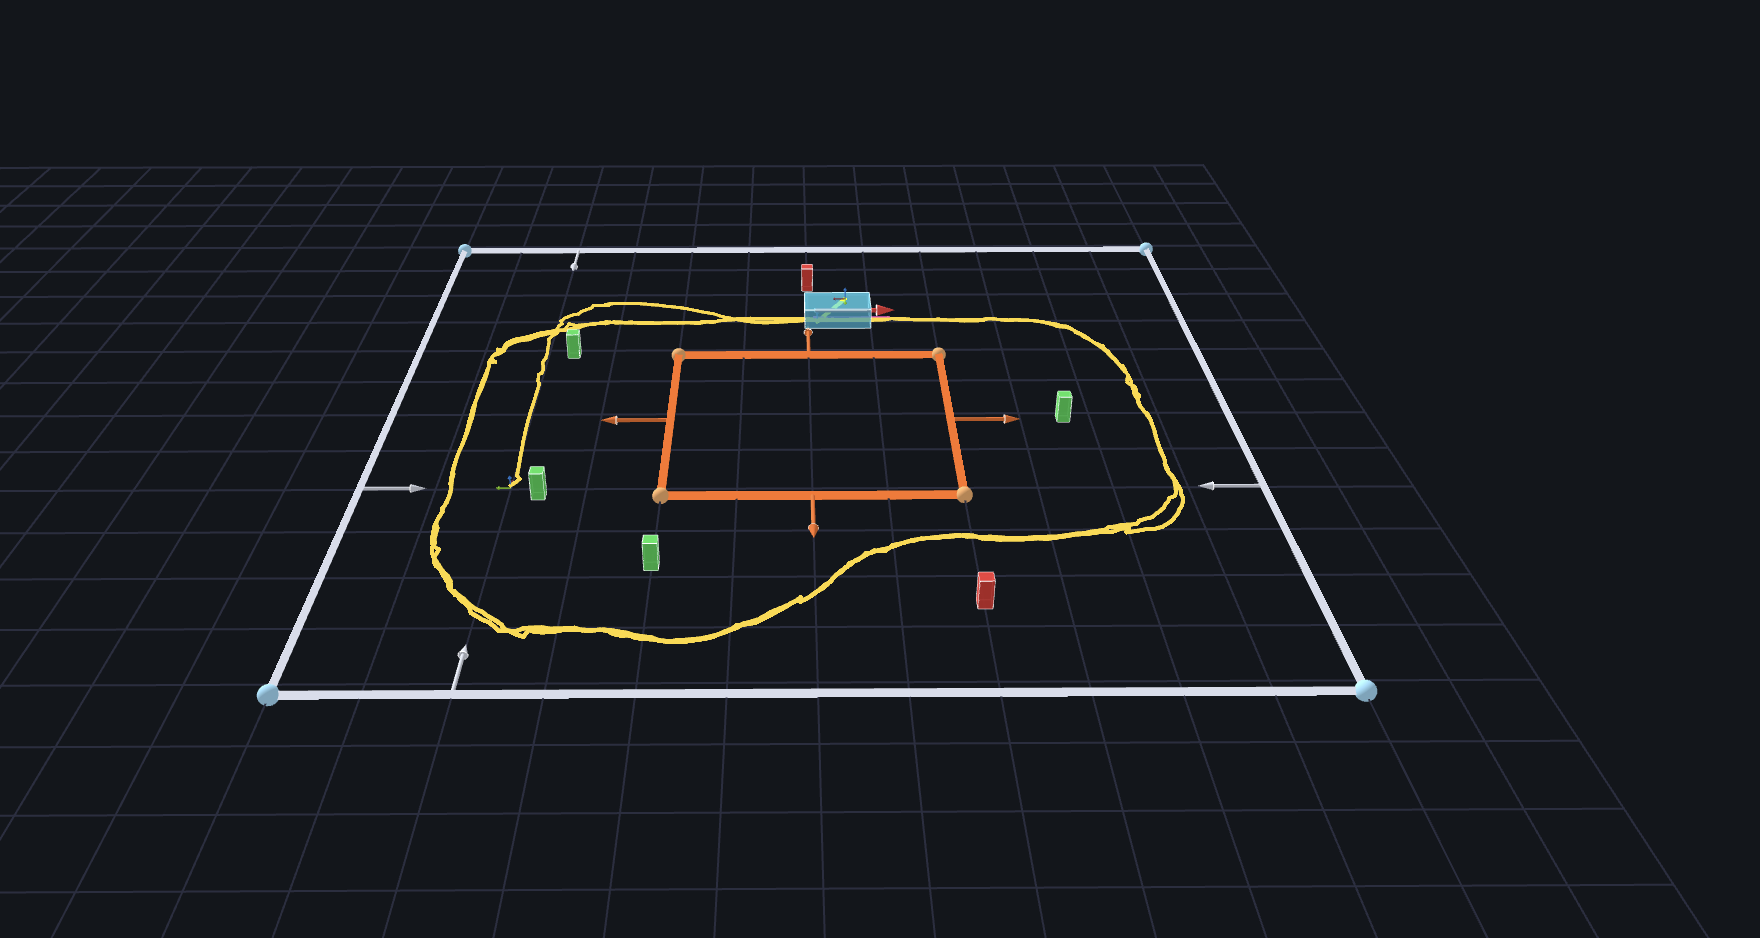
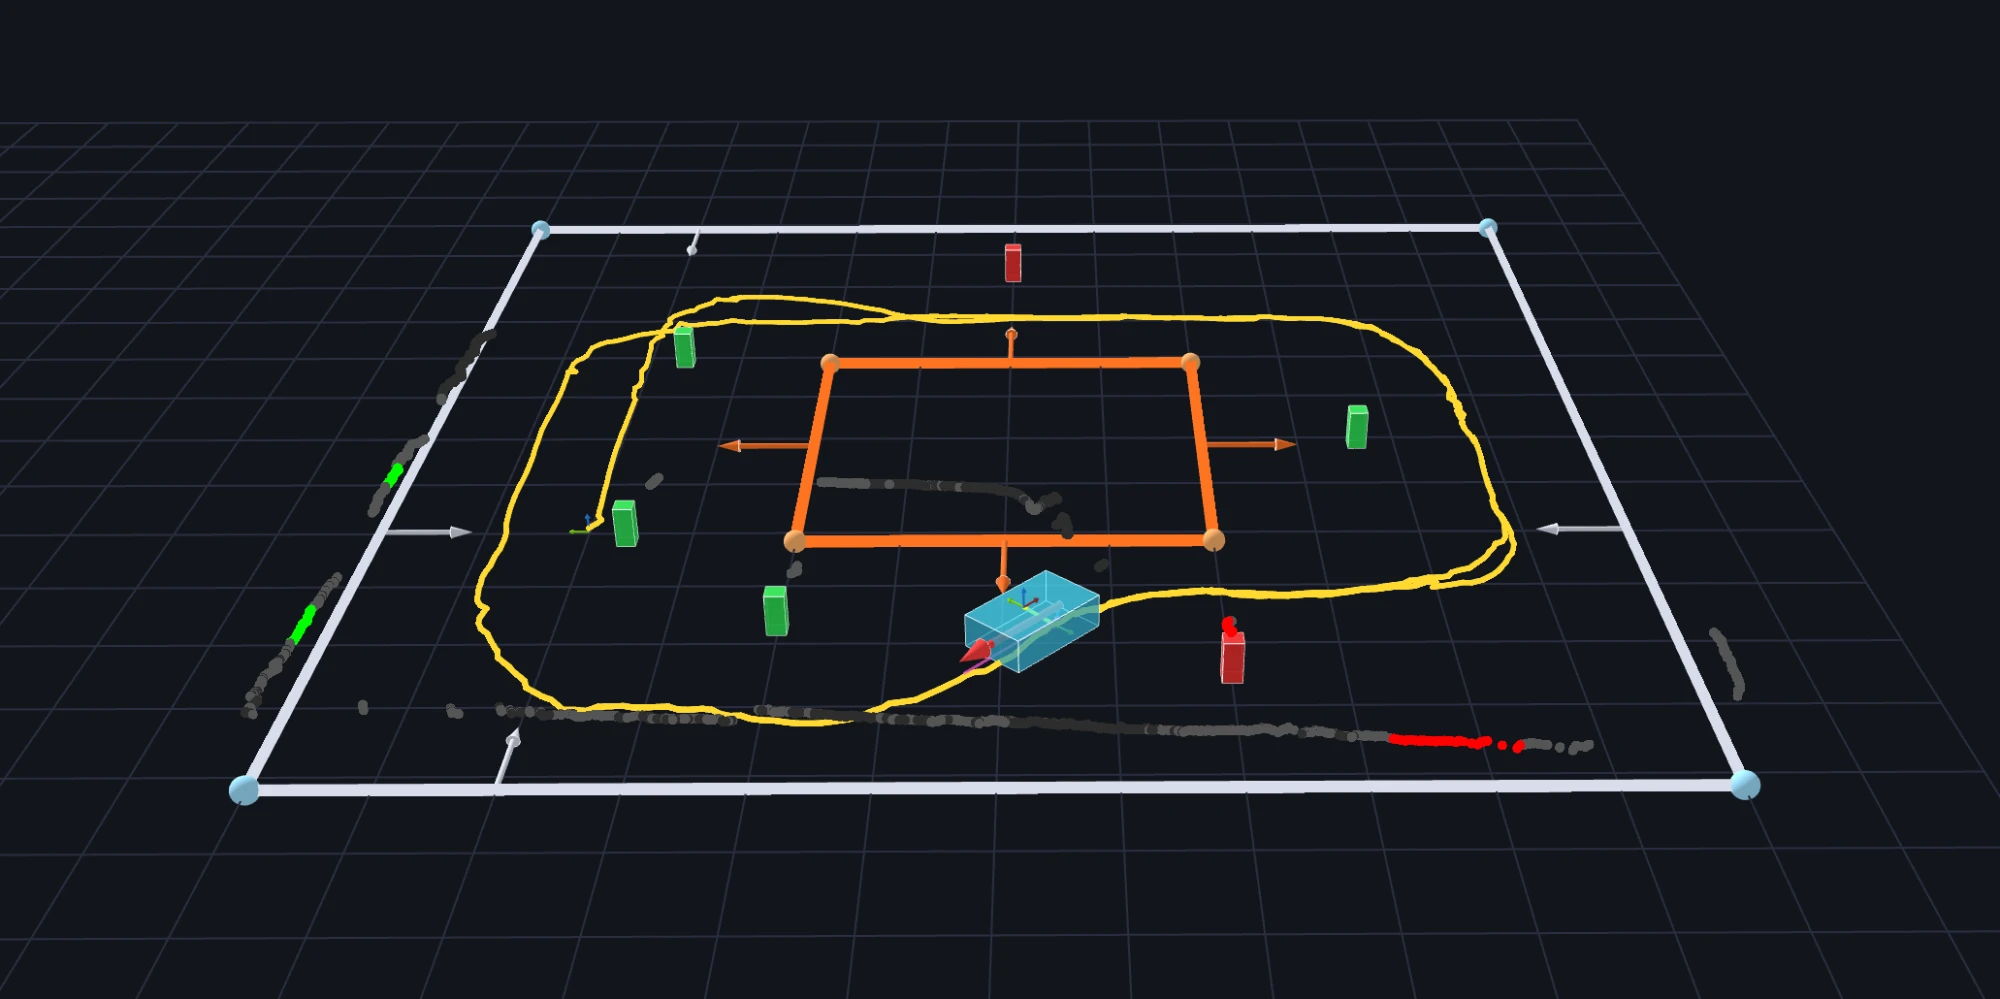
Show the Foxglove layout, the coloured scan and the system tab
The whole layout of a camera run, the field overlay with the coloured
LiDAR points, and the system tab with the ESP link and the stuck battery
reading replace the first two screenshots.

diff --git a/docs/journal/06-reproducibility.md b/docs/journal/06-reproducibility.md
@@ -134,6 +134,13 @@ detected pillars and the run clock. It also forwards the Jetson's load and
 temperatures. Nothing on the vehicle depends on it; it exists only to be looked
 at.
 
+One layout shows a run at a glance: the camera with the colour of every LiDAR
+point, the overlay, the diagnostics, the ESP link, the battery, the
+race state (direction, lap, corner) and the log. Further tabs group the plots
+for control, drive, localisation, geometry and the system.
+
+![The Foxglove layout replaying run `parken_test_4`. Left: the fisheye image with the calibrated LiDAR zone and the colour count of the current scan (33 red, 2 190 black, 113 unknown points), below it the unwrapped panorama. Middle: the field overlay. Right: diagnostics, here reporting a saturated CPU core and the Jetson temperature, the ESP link and the battery. Bottom: race state and log.](../figures/foxglove_layout_camera_run.png)
+
 **From the recording.** The `/viz` topics of the overlay are recorded with every
 run, so the same view can be replayed and stepped through. A `.db3` recording
 does not contain its message definitions, and Foxglove's built-in definition of
@@ -147,11 +154,11 @@ pip install rosbags
 python3 docs/analysis/bag_to_mcap.py ~/runs/cw_pos1_22   # -> ~/runs/cw_pos1_22_mcap/
 ```
 
-![Replay of run `cw_pos1_22` (obstacle challenge, clockwise) in Foxglove: the outer and inner walls as measured, with their normals; the path of all three laps in yellow; the detected pillars in red and green; the vehicle at the end of the run.](../figures/foxglove_3d_obstacle.png)
+![Replay of run `cw_pos1_22` (obstacle challenge, clockwise): the outer and inner walls as measured, with their normals; the driven path in yellow; the detected pillars in red and green; the vehicle with the LiDAR points of the current scan, coloured by the camera (grey: black wall, red and green: pillar).](../figures/foxglove_3d_obstacle.png)
 
-<!-- TODO figures: open challenge replay; camera and coloured LiDAR points
-(parken_test_4); Jetson load of the last obstacle run (parken_test_49).
-TODO: export the Foxglove layouts to setup/foxglove/ and link them here. -->
+<!-- TODO figures: open challenge replay; Jetson load of the last obstacle run
+(parken_test_49). TODO: export the Foxglove layouts to setup/foxglove/ and link
+them here (the layout is called wro_overlay_layout). -->
 
 The replay answers the questions a number cannot: where the vehicle lost a wall,
 which pillar was seen from where, what the controller saw when it braked. The
@@ -159,8 +166,8 @@ numbers themselves then come from the scripts in
 [`docs/analysis/`](../analysis), over all runs at once
 ([chapter 3](04-software.md)).
 
-**A fault that was in every recording.** Plotted over a run, the reported pack
-voltage is a flat line at 17.52 V, 4.38 V per cell. That is impossible twice: a
+**A fault that was in every recording.** Plotted over a run (bottom of the
+figure below), the reported pack voltage is a flat line at 17.52 V, 4.38 V per cell. That is impossible twice: a
 full LiPo cell has 4.2 V, and under load the voltage has to fall. The table of
 all runs ([`data/runs.csv`](../data/runs.csv)) shows the same value as the
 minimum voltage of all 73 recorded runs between 11 and 29 September. The reading
@@ -171,7 +178,7 @@ was a failed resistor in the voltage divider
 A plausible value is not proof of a working sensor; a signal that never moves is
 the warning sign.
 
-![Foxglove plot of the reported pack voltage over run `parken_test_49` (detail): a flat line at 17.52 V for the whole run; the legend shows 4.38 V per cell.](../figures/foxglove_battery_flat.png)
+![The system tab replaying run `parken_test_4`. Top: the ESP link's own diagnostics. Middle: latency of the link, a few milliseconds with single peaks, and the clock drift between ESP and Jetson, re-estimated in steps. Bottom: the reported battery voltage, a flat line at 17.52 V (4.38 V per cell) through the whole run.](../figures/foxglove_system_tab.png)
 
 ## Versions
 
